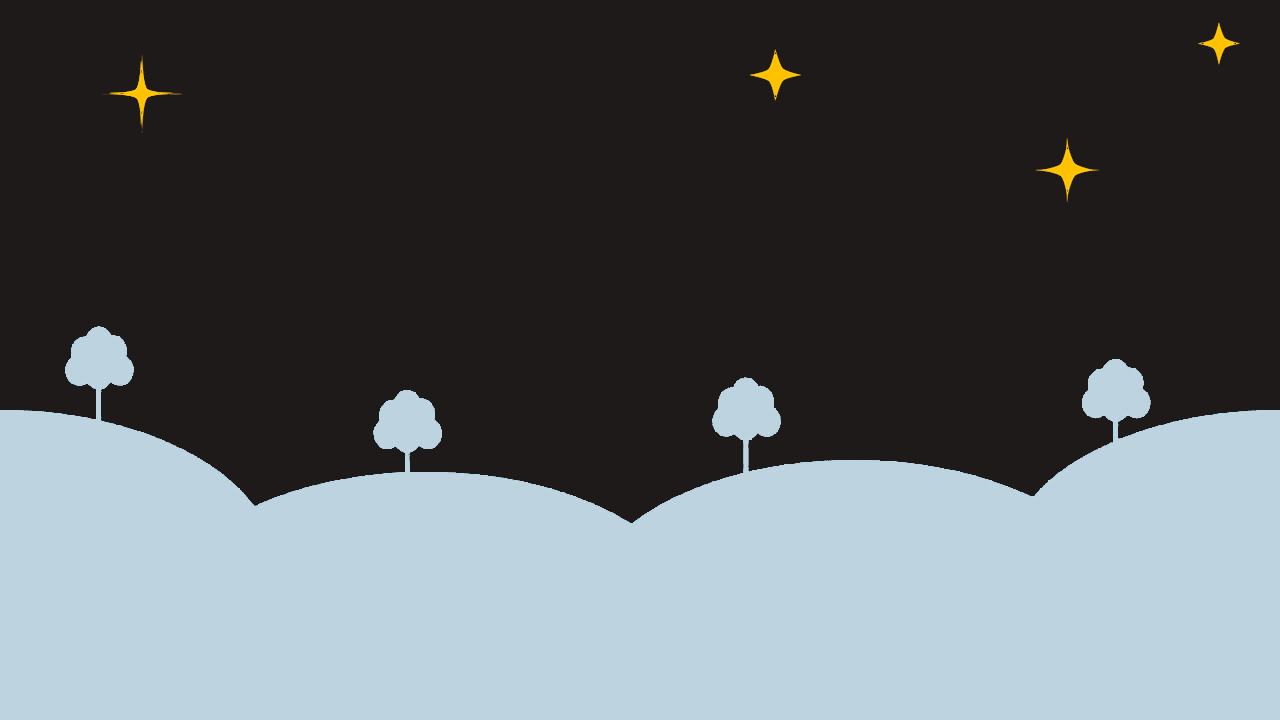
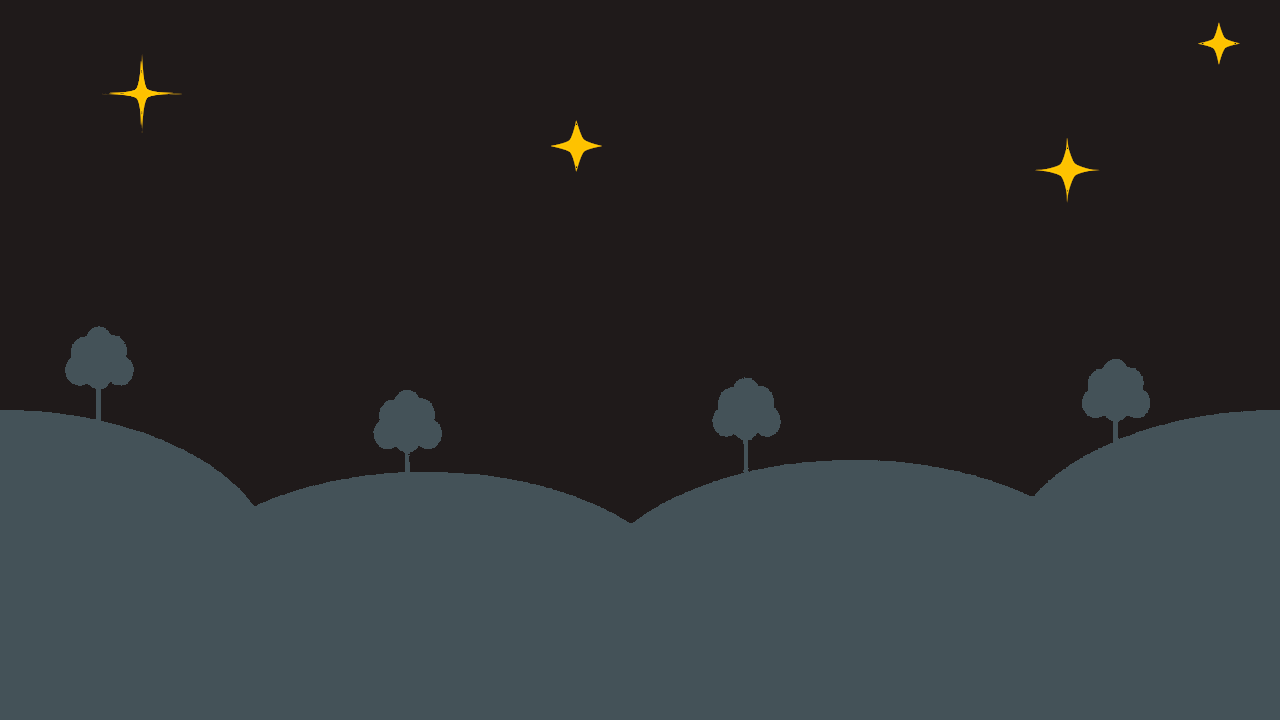
Implemented night road background

diff --git a/static/game.js b/static/game.js
@@ -2,6 +2,7 @@ window.addEventListener("load", function (){
     const game = {
         gameStarted : false,
         initStart: function () {
+            this.disableRightClick();
             this.initJump();
         },
         initStartingAnimation : function (){
@@ -83,8 +84,10 @@ window.addEventListener("load", function (){
                     }
                     this.removeObstacle(obstacle)
                     game.gameScore.score += 1;
-                    if (game.gameScore.score === 15) {
+                    if (game.gameScore.score === 10) {
                         document.getElementById("game-background").style.background = "url(/static/images/background_night.png) repeat-x 0 / 100% auto";
+                        document.getElementById("game-container").classList.remove("game-container-background1");
+                        document.getElementById("game-container").classList.add("game-container-background2");
                         document.getElementById("game-score").style.color = "white";
                     }
                     if (game.gameScore.score%5 === 0) {
@@ -122,7 +125,7 @@ window.addEventListener("load", function (){
         },
         randomPos : {
             alreadyChosen : false,
-            posArray : [100, 100, 100, 200, 200, 200, 300, 300, 400],
+            posArray : [100, 100, 100,100 , 100, 200, 200, 200, 200, 300, 300, 400],
             pos : 0,
             getRandomPos : function (){
                 if (!this.alreadyChosen){
@@ -139,6 +142,11 @@ window.addEventListener("load", function (){
                     game.obstacles.addObstacle();
                     game.randomPos.alreadyChosen = false;
             }
+        },
+        disableRightClick : function (){
+            window.addEventListener("contextmenu",function (event){
+                event.preventDefault();
+            })
         },
         initJump : function (){
             window.addEventListener("keydown", jump)

diff --git a/static/game.css b/static/game.css
@@ -13,14 +13,20 @@
 }
 #game-border{
     z-index: 10;
-    box-shadow: 0 0 0 100px rgb(255, 255, 255);
+    box-shadow: 0 0 0 120px rgb(255, 255, 255);
 }
 #game-container {
     display: flex;
-    background:url(/static/images/droga3.png) repeat-x 0 / 100% auto;
+
     background-size: 1000px 500px;
     animation: animation 6s linear infinite ;
     border: 1px solid black;
+}
+.game-container-background1{
+    background:url(/static/images/droga.png) repeat-x 0 / 100% auto;
+}
+.game-container-background2{
+    background:url(/static/images/droga_night.png) repeat-x 0 / 100% auto;
 }
 @keyframes animation{
 	0%{background-position: 1000px 0;}

diff --git a/templates/game.html b/templates/game.html
@@ -9,7 +9,7 @@
     <div id="game-border" class="game-field" ></div>
     <div id="game-background" class="game-field" style="animation-play-state: paused;"></div>
     <div id="game-score" class="game-field"></div>
-    <div id="game-container" class="game-field" style="animation-play-state: paused;">
+    <div id="game-container" class="game-field game-container-background1" style="animation-play-state: paused;">
         <div class="player player-full player-animation" style="left: 0px"></div>
     </div>
     <div id="game-result">
